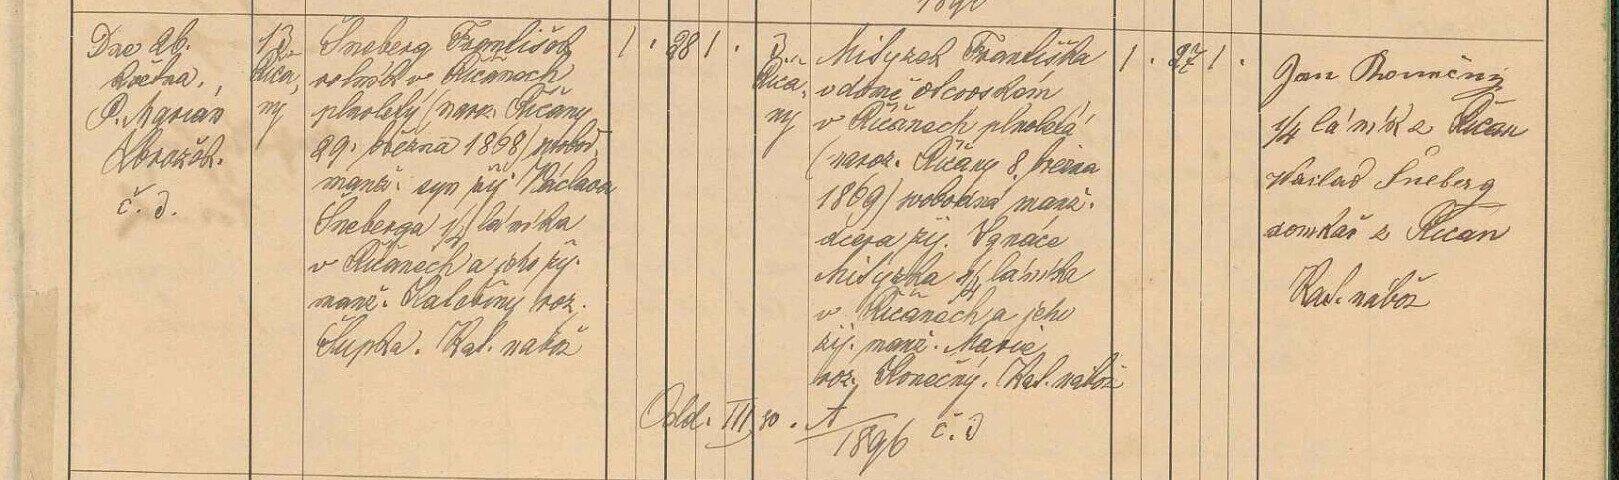
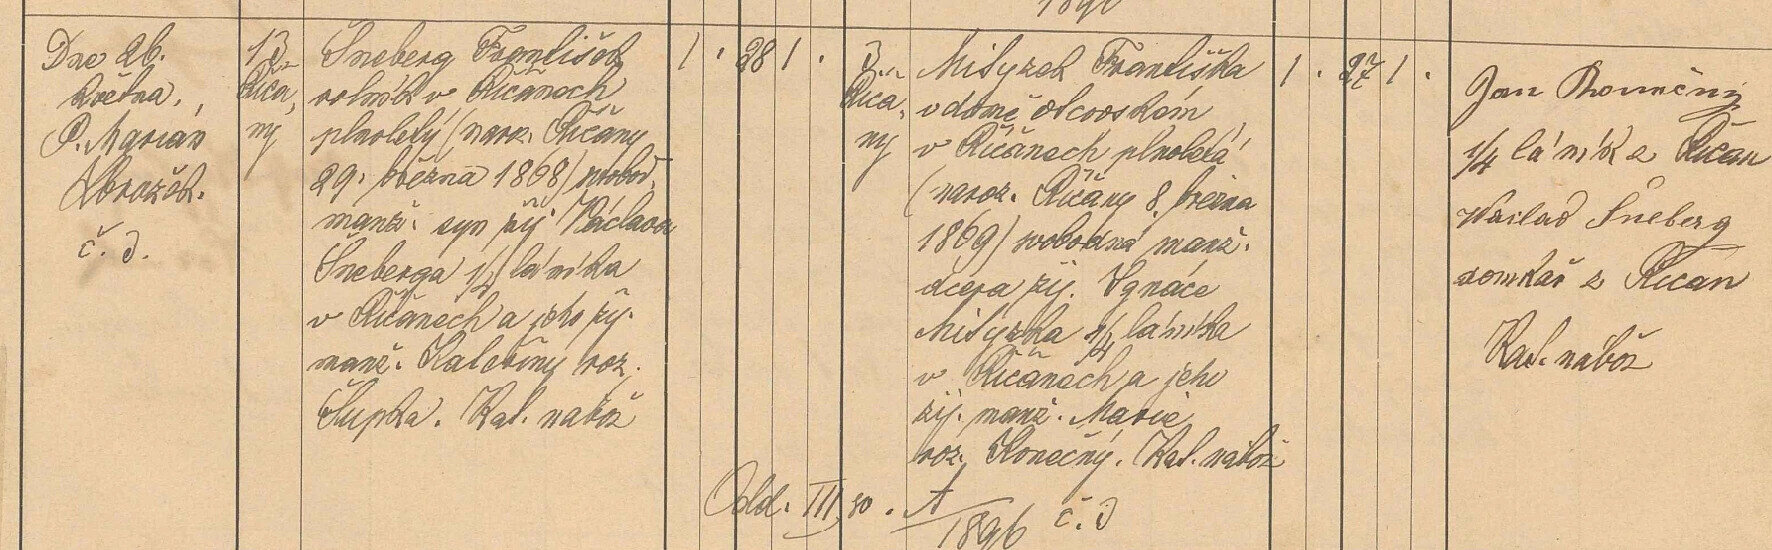
Oprava čtení ze sňatků 1896 (Juliána * 1862, Mityškovi č. 3)
Claude-Session: https://claude.ai/code/session_016MnzND5bsB24EgcXowKK9d

Changed region(s): [[0.0, 0.0, 1.0, 1.0], [0.0, 0.5938, 0.3397, 1.0], [0.1235, 0.5938, 0.1544, 0.625]]

diff --git a/data/osoby.py b/data/osoby.py
@@ -46,7 +46,7 @@ P = {
              note="Sňatek 1896 doložen. Že je otcem Miroslavy, plyne z rejstříku („dcera Františka“, Říčany) – jiný "
                   "František Šneberg v Říčanech zatím není znám; křestní zápis Miroslavy online není."),
     11: dict(n="Františka Mityšková", y="* 1869", st="prob",
-             f=["* 8. 3. 1869 Říčany", "× 26. 5. 1896 Říčany František Šneberg"],
+             f=["* 8. 3. 1869 Říčany č. 3", "× 26. 5. 1896 Říčany František Šneberg"],
              r=["ricany_oddani_frantisek_sneberg_frantiska_mityskova_1896",
                 "ricany_oddani_frantisek_kolar_cyrilla_snebergova_1920"],
              note="Sňatek 1896 doložen; matka Cyrilly (sňatek 1920). Že je i matkou Miroslavy, je pravděpodobné "
@@ -62,7 +62,7 @@ P = {
     21: dict(n="Kateřina Šupková", y="", st="doc", f=[],
              r=["ricany_oddani_frantisek_sneberg_frantiska_mityskova_1896", "ricany_oddani_josef_mitysek_juliana_snebergova_1896"],
              note="Matka Františka a Juliány Šnebergových (sňatky 1896: „Kateřiny roz. Šupka“)."),
-    22: dict(n="Ignác Mityšek", y="", st="doc", f=["čtvrtláník v Říčanech"],
+    22: dict(n="Ignác Mityšek", y="", st="doc", f=["čtvrtláník v Říčanech č. 3"],
              r=["ricany_oddani_frantisek_sneberg_frantiska_mityskova_1896", "ricany_oddani_josef_mitysek_juliana_snebergova_1896",
                 "ricany_oddani_frantisek_kolar_cyrilla_snebergova_1920"],
              note="Otec Františky a Josefa Mityškových (sňatky 1896). Zda v roce 1896 žil, čtu nejistě („živ.“)."),
@@ -92,13 +92,14 @@ SIDE = [
          t="Z Říčan č. 13, dcera rolníka Františka Šneberga a Františky roz. Mityškové(?). 4. 2. 1920 se v Říčanech "
            "provdala za Františka Koláře, rolníka z Ostrovačic. Možná starší sestra babičky Miroslavy – zatím neověřeno.",
          r=["ricany_oddani_frantisek_kolar_cyrilla_snebergova_1920"]),
-    dict(k=10, n="Juliána Šnebergová (* 1868 ?)",
+    dict(k=10, n="Juliána Šnebergová (* 1862)",
          t="Sestra Františka. 26. 5. 1896 – týž den jako on – se v Říčanech vdala za Josefa Mityška, bratra jeho nevěsty "
            "Františky: dvojí svatba dvou sourozeneckých párů.",
          r=["ricany_oddani_josef_mitysek_juliana_snebergova_1896"]),
     dict(k=11, n="Josef Mityšek (* 1866)",
-         t="Bratr Františky, rolník v Říčanech. 26. 5. 1896 se oženil s Juliánou Šnebergovou, sestrou Františkova ženicha.",
-         r=["ricany_oddani_josef_mitysek_juliana_snebergova_1896"]),
+         t="Bratr Františky, rolník v Říčanech č. 3. 26. 5. 1896 se oženil s Juliánou Šnebergovou, sestrou Františkova "
+           "ženicha. V roce 1920 byl svědkem na svatbě své neteře Cyrilly („Josef Mityšek, rolník v Říčanech č. 3“).",
+         r=["ricany_oddani_josef_mitysek_juliana_snebergova_1896", "ricany_oddani_frantisek_kolar_cyrilla_snebergova_1920"]),
 ]
 
 # Rozpory a otevřené otázky (na web do „Co hledáme“) jako dvojice (otázka, odpověď). Odpověď začněte
@@ -110,8 +111,7 @@ ISSUES = [
      "Cyrilla (* 1897) se vdala 1920. Miroslava mohla být její mladší sestra; Mityškovi se objevují i v rodinném vyprávění. "
      "Ověřit v rejstříku narozených Ostrovačice (kn. 1552)."),
     ("Kdy se narodila Juliána Šnebergová, sestra Františka?",
-     "Otevřené: v zápisu sňatku 1896 čtu 29. 11. 1868, ale bratr František se podle sousedního zápisu narodil 29. 3. 1868 – "
-     "jedno z dat je zapsané nebo přečtené chybně. Ověřit v knize narozených Říčany."),
+     "Vyřešeno: na ostřejším snímku je 29. 11. 1862 (věk 34), ne 1868 – rozpor s bratrem Františkem (* 1868) zmizel."),
 ]
 
 # Hypotézy o původu rodu nad rámec doložené linie (zobrazí se na stránce rodu):

diff --git a/data/research_log.md b/data/research_log.md
@@ -12,3 +12,4 @@ Konvence: každý řádek = jedno hledání, i neúspěšné. Negativní výsled
 | 5 | 13. 11. 2026 | MZA, kn. 1552 (index N Ostrovačice+Říčany 1878–1948), snímek od Petra | sn. 64, jeden řádek | Miroslava Šnebergová | NALEZENO: „" 2/7 Šnebergová Miroslava, dcera Františka – Říčany – 509“. Rok jen jako dtto, nepřečten (rodina: 1910). Kniha narozených s str. 509 online není. → ostrovacice_index_n_miroslava_snebergova_1910 | www.mza.cz/actapublica/matrika/detail/10031 |
 | 6 | 13. 11. 2026 | MZA, kn. 1552, celý snímek 64 od Petra | sn. 64 (roky 1907–1911) | rok u Miroslavy, další Šnebergové | Rok 1910 potvrzen (pravá strana, blok 1910 od 1. 1.). STOPA: levá strana, 1908 4/5 „Šnebergová […] Bedřiška(?), dcera Matyldy“, Říčany, str. 482 – dítě uvedené po matce (asi nemanželské); možná příbuzná. Jiní Šnebergové na snímku nejsou. | www.mza.cz/actapublica/matrika/detail/10031 |
 | 7 | 13. 11. 2026 | MZA, kn. 1544 (O Říčany 1891–1948), snímky od Petra | sn. 14 (?) (str. 18–19, r. 1895–1896) | sňatek František Šneberg × Františka Mityšková | NALEZENO: 26. 5. 1896 dva sňatky: č. 3 František Šneberg (* 29. 3. 1868) × Františka Mityšková (* 8. 3. 1869); č. 2 Josef Mityšek (* 10. 3. 1866) × Juliána Šnebergová (* 29. 11. 1868 ?). Rodiče: Václav Šneberg × Kateřina Šupková; Ignác Mityšek × Marie Konečná. Rozpor v datech narození Františka a Juliány (ISSUES). | www.mza.cz/actapublica/matrika/detail/14170 |
+| 8 | 13. 11. 2026 | MZA, kn. 1544, ostřejší snímek str. 19 od Petra | zápisy č. 2 a 3 z 26. 5. 1896 | kontrola čtení | Opraveno: Juliána Šnebergová * 29. 11. 1862 (věk 34), ne 1868 – rozpor vyřešen. Mityškovi bydleli v Říčanech č. 3 (shoda se svědkem Josefem Mityškem č. 3 v r. 1920). | www.mza.cz/actapublica/matrika/detail/14170 |
